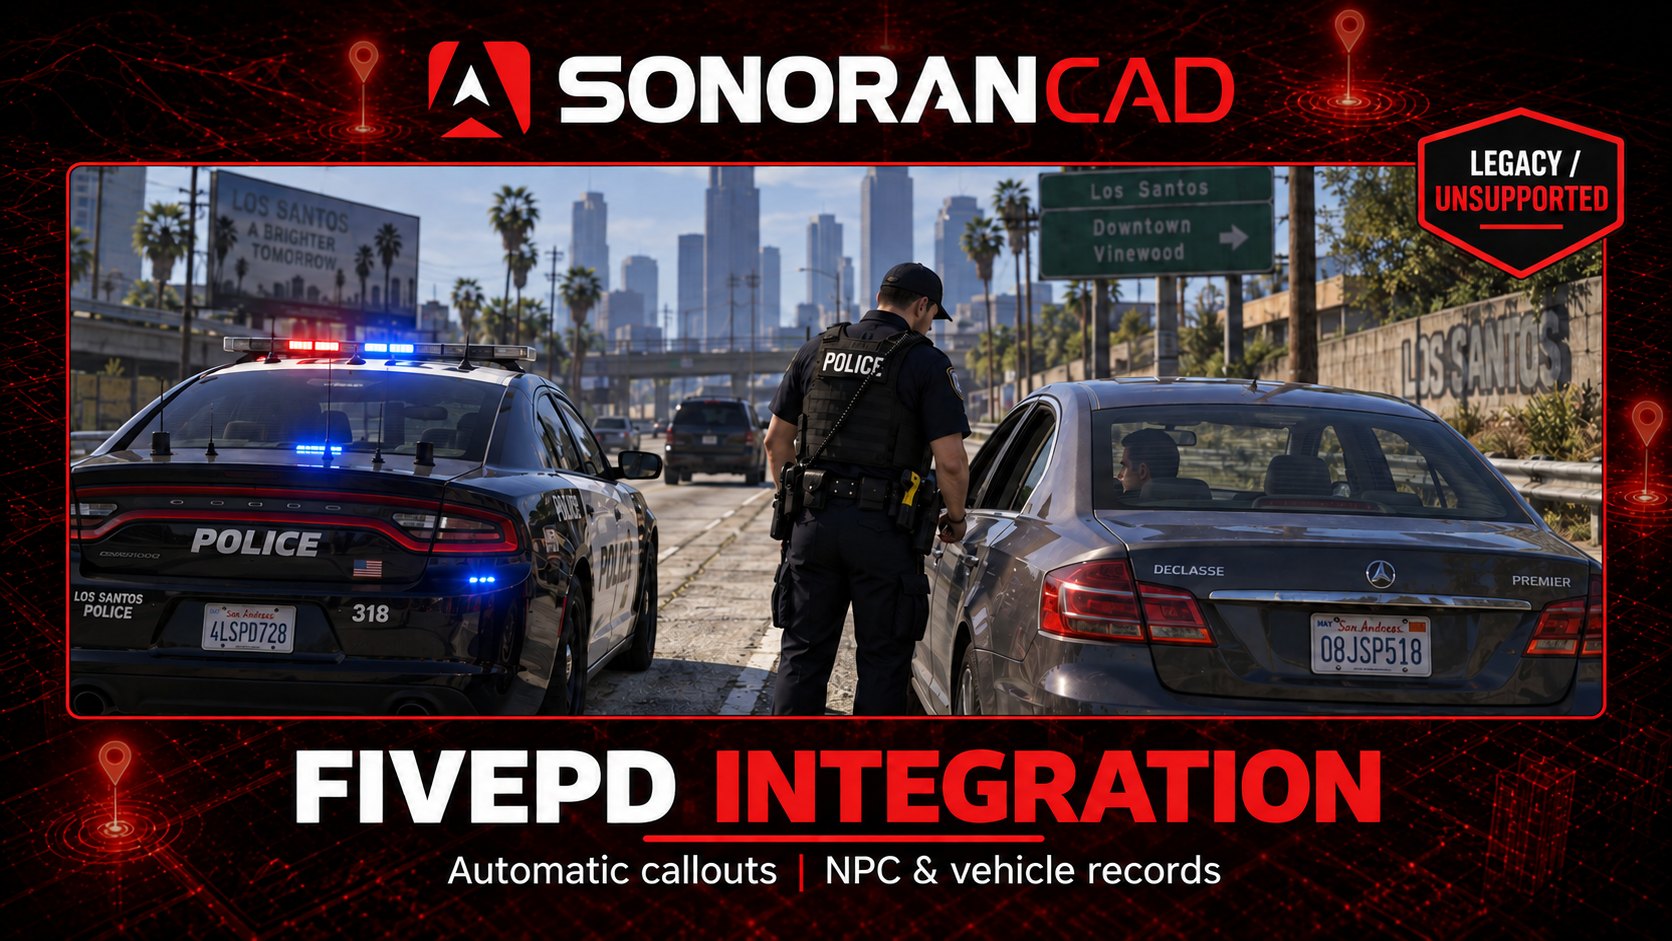
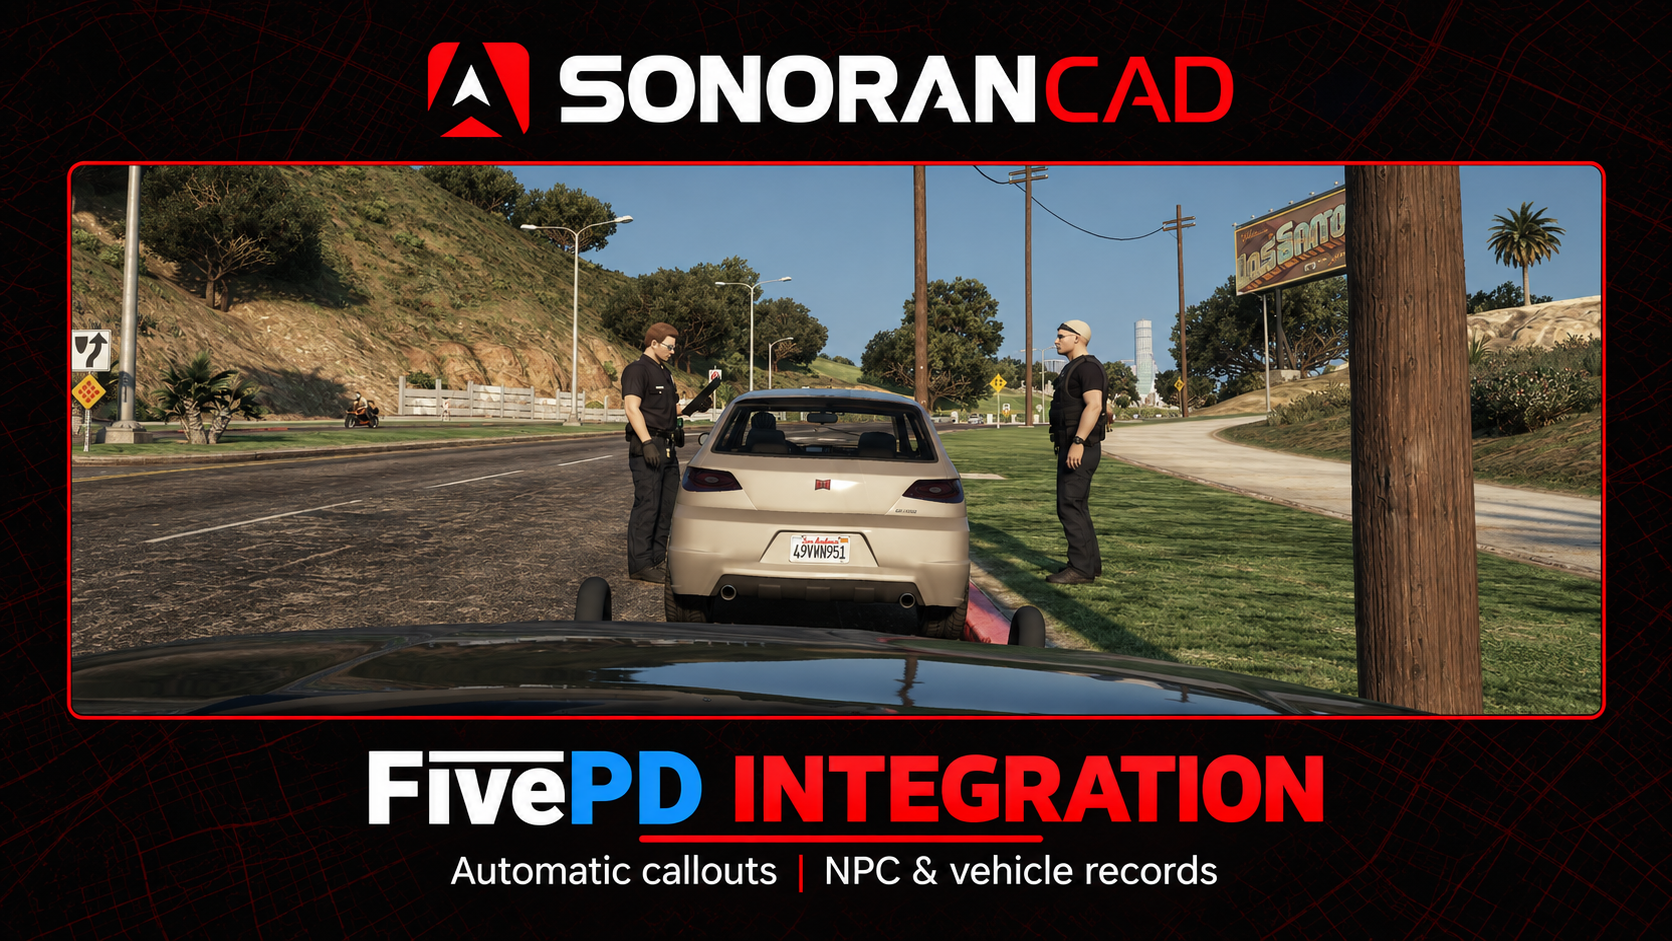
Refine FivePD promo and upstream support disclaimer

diff --git a/cad/sonoran-cad/integration-plugins/in-game-integration/available-plugins/fivepd.md b/cad/sonoran-cad/integration-plugins/in-game-integration/available-plugins/fivepd.md
@@ -1,13 +1,15 @@
 ---
-description: Automatic CAD calls and NPC records for legacy FivePD servers. Unofficial, unsupported, and not maintained.
+description: Automatic CAD calls and NPC records for FivePD 1.5.x, integrated as far as its available API allows without upstream developer support.
 ---
 
 # FivePD (Legacy, Unsupported)
 
-<figure><img src="../../../.gitbook/assets/sonoran_fivepd_integration_promo.png" alt="Sonoran CAD FivePD integration: automatic callouts and NPC and vehicle records. Legacy and unsupported."><figcaption><p>FivePD integration - illustrative promotional artwork</p></figcaption></figure>
+<figure><img src="../../../.gitbook/assets/sonoran_fivepd_integration_promo.png" alt="Sonoran CAD FivePD integration: automatic callouts and NPC and vehicle records."><figcaption><p>FivePD integration - illustrative promotional artwork</p></figcaption></figure>
 
 {% hint style="warning" %}
-**Unofficial, unsupported, and not maintained.** This integration is provided as-is for communities already running legacy FivePD. Sonoran Software support does not troubleshoot it, and future compatibility updates are not planned. It has not been verified in a live FivePD session.
+**FivePD 1.5.x has gone years without updates or support from its developers.** We have integrated as much as we can using its available API and source material, without support from the FivePD developers. Further functionality and compatibility fixes are limited by what FivePD exposes.
+
+This CAD integration is **unofficial, unsupported, and not maintained**, and is provided as-is for existing FivePD servers. Sonoran Software support does not troubleshoot it, and future compatibility updates are not planned. It has not been verified in a live FivePD session.
 {% endhint %}
 
 FivePD is listed with the FiveM submodules for discovery, but is installed as a **separate resource and a FivePD plugin DLL**. It is not bundled with Sonoran CAD and does not go in `sonorancad/submodules/`.

diff --git a/cad/sonoran-cad/integration-plugins/in-game-integration/available-plugins/README.md b/cad/sonoran-cad/integration-plugins/in-game-integration/available-plugins/README.md
@@ -6,4 +6,4 @@ description: View Sonoran CAD's vast library of integration plugins for your com
 
 ### Legacy Integrations
 
-[FivePD (Legacy, Unsupported)](fivepd.md) is available for existing FivePD servers as a separate resource and plugin DLL. It is not bundled with Sonoran CAD, supported, or maintained. Follow its installation page rather than the standard submodule activation steps.
+[FivePD (Legacy, Unsupported)](fivepd.md) is available for existing FivePD servers as a separate resource and plugin DLL. FivePD 1.5.x has gone years without developer updates or support; this as-is integration uses what its available API allows. It is not bundled with Sonoran CAD, supported, or maintained. Follow its installation page rather than the standard submodule activation steps.
